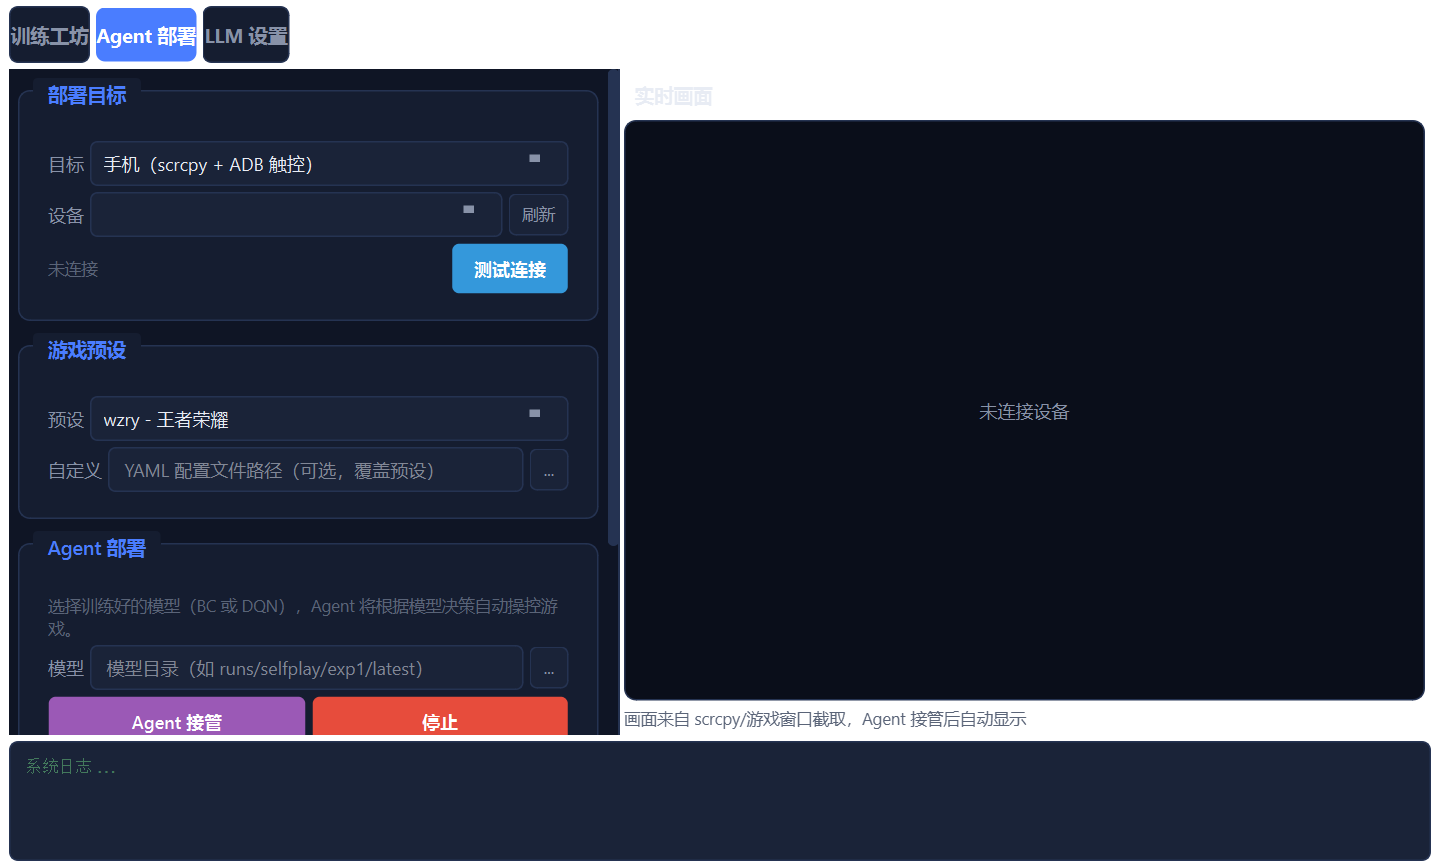
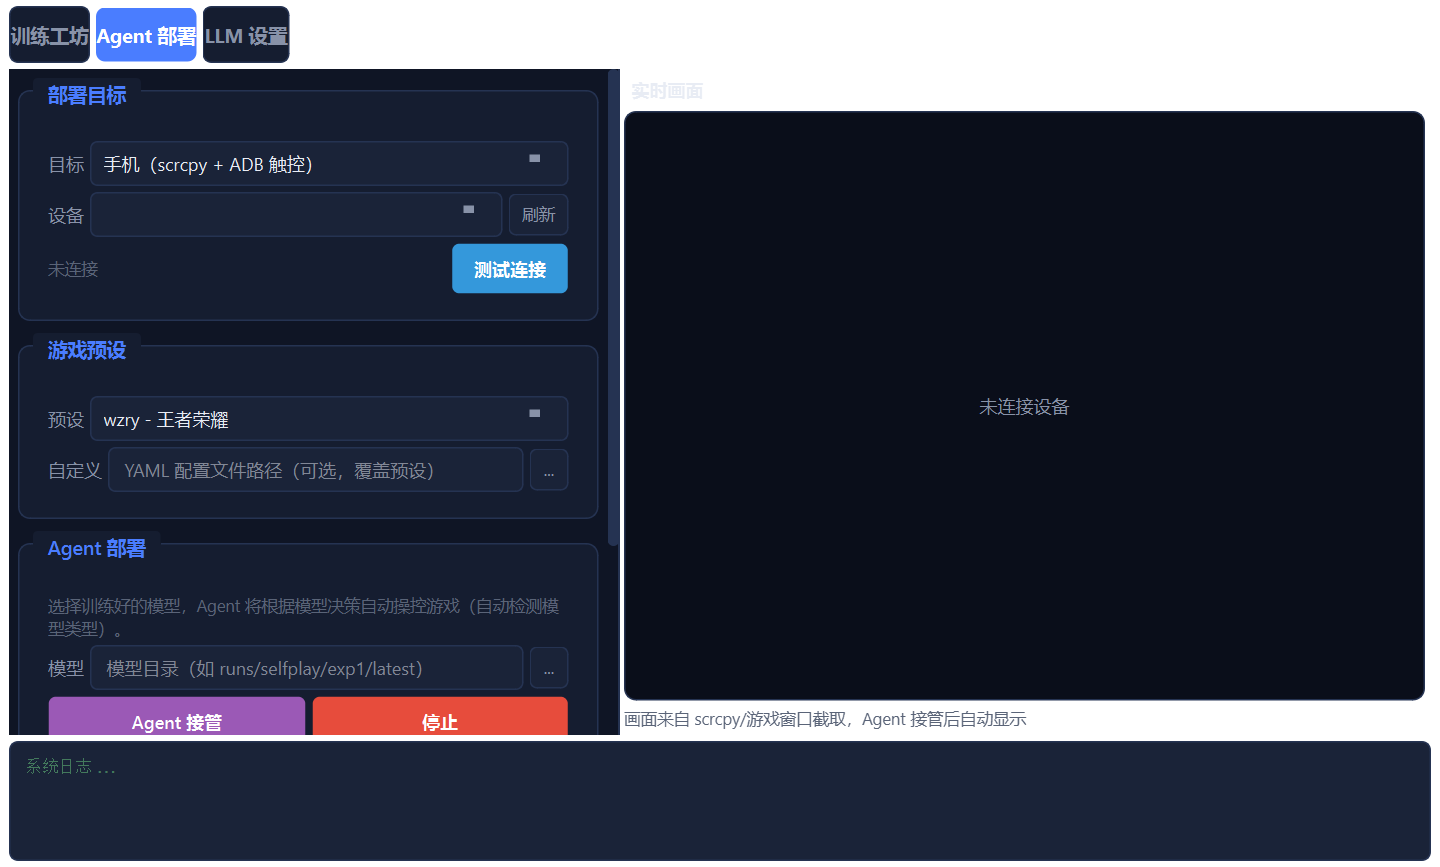
更新界面截图和 README 描述，匹配最新 GUI

diff --git a/README.md b/README.md
@@ -17,19 +17,19 @@
 
 ### 训练工坊
 
-录制操作、行为克隆训练、伪标签扩展、RL 自对弈，全部在一个面板完成。
+场景管理、录制操作、行为克隆训练、自主改进循环、RL 蒸馏，全部在一个面板完成。
 
 ![训练工坊](docs/screenshots/mode_train.png)
 
 ### Agent 部署
 
-连接手机设备，加载训练好的模型（BC 或 DQN），Agent 自动接管游戏操作并显示实时画面。
+连接手机/PC，选择训练好的模型，Agent 自动检测模型类型并接管游戏操作，实时显示画面。
 
 ![Agent 部署](docs/screenshots/mode_agent.png)
 
 ### LLM 配置
 
-LLM 连接配置，训练工坊的 LLM Coach 和伪标签扩展共用此配置。
+LLM 连接配置，训练工坊的 LLM Coach、动作发现、伪标签扩展共用此配置。
 
 ![LLM 配置](docs/screenshots/mode_llm.png)
 
